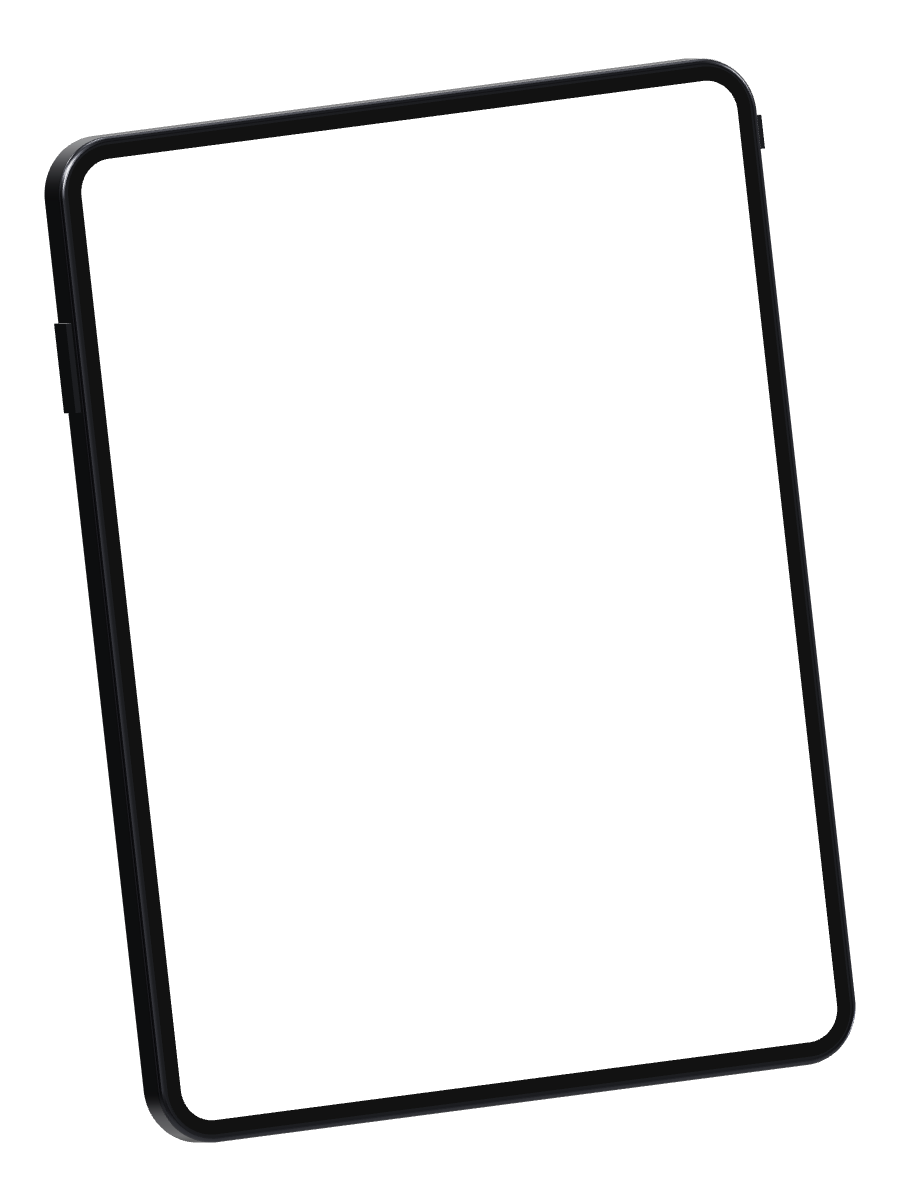
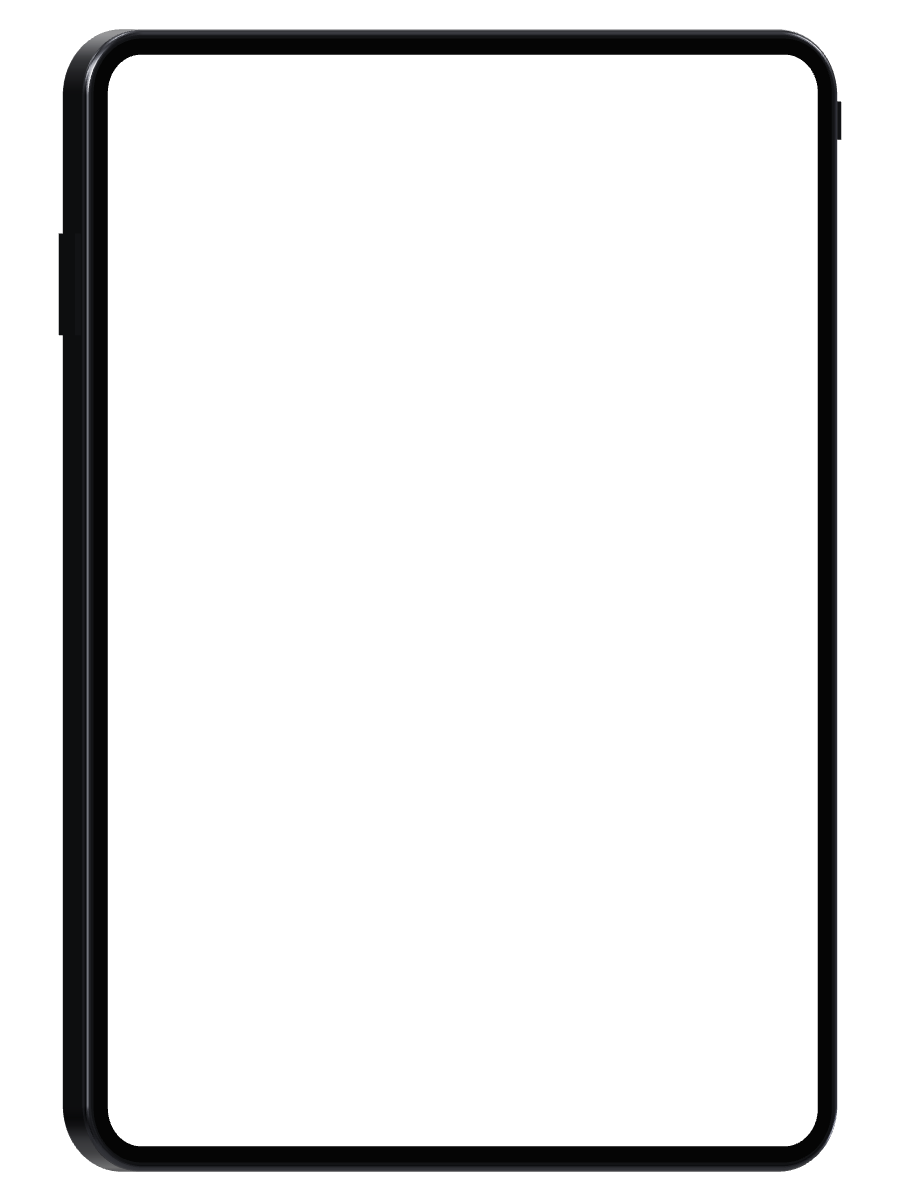
fix: 3D iPad is a pure turn (level top/bottom, vertical sides, no shear) so real screenshots look natural

Changed region(s): [[0.0311, 0.0, 0.9644, 0.9858]]

diff --git a/src/utils/screenshotInfo.ts b/src/utils/screenshotInfo.ts
@@ -59,11 +59,13 @@ function describePhone(p: PhoneObject) {
     kind: p.deviceKind ?? 'phone',
     ...((() => {
       if (!getDeviceModel(p.deviceModel, p.deviceKind ?? 'phone').render3d) return {};
-      const deviceName = (p.deviceKind ?? 'phone') === 'tablet' ? 'iPad' : 'iPhone';
+      const isTablet = (p.deviceKind ?? 'phone') === 'tablet';
       const mirrored = p.deviceModel?.endsWith('-mirror') ?? false;
-      return {
-        look: `3D-rendered ${deviceName} turned about 25 degrees (slightly tilted in-plane, mild perspective — the left and right edges stay nearly parallel), showing only a thin sliver of its ${mirrored ? 'left' : 'right'} edge${mirrored ? ' (the mirror image of the default 3D pose: turned and leaning the opposite way)' : ''}; the screen content is in perspective`,
-      };
+      const side = mirrored ? 'left' : 'right';
+      const look = isTablet
+        ? `3D-rendered iPad turned about 30 degrees around its vertical axis, with NO perspective and NO roll: the top and bottom edges stay perfectly horizontal and parallel, the left and right edges stay vertical and parallel, and the screen is simply compressed horizontally (not sheared). A thin sliver of its ${side} edge is visible${mirrored ? ' (the mirror image of the default pose: turned the opposite way)' : ''}.`
+        : `3D-rendered iPhone turned about 25 degrees (slightly tilted in-plane, mild perspective — the left and right edges stay nearly parallel), showing only a thin sliver of its ${side} edge${mirrored ? ' (the mirror image of the default 3D pose: turned and leaning the opposite way)' : ''}; the screen content is in perspective`;
+      return { look };
     })()),
     width: p.width,
     top: p.top,

diff --git a/src/phoneFrame.ts b/src/phoneFrame.ts
@@ -186,7 +186,7 @@ export const DEVICE_MODELS: DeviceModel[] = [
       frameUrl: ipad3dFrame,
       frameWidth: 900,
       frameHeight: 1201,
-      quad: [[0.18445, 0.06399], [0.91359, 0.13553], [0.79496, 0.93601], [0.06581, 0.86447]],
+      quad: [[0.09126, 0.0455], [0.88016, 0.0455], [0.88016, 0.9545], [0.09126, 0.9545]],
       screenAspect: 1.3494,
     },
   },
@@ -204,7 +204,7 @@ export const DEVICE_MODELS: DeviceModel[] = [
       frameUrl: ipad3dMirrorFrame,
       frameWidth: 900,
       frameHeight: 1201,
-      quad: [[0.08641, 0.13553], [0.81555, 0.06399], [0.93419, 0.86447], [0.20504, 0.93601]],
+      quad: [[0.11984, 0.0455], [0.90874, 0.0455], [0.90874, 0.9545], [0.11984, 0.9545]],
       screenAspect: 1.3494,
     },
   },
